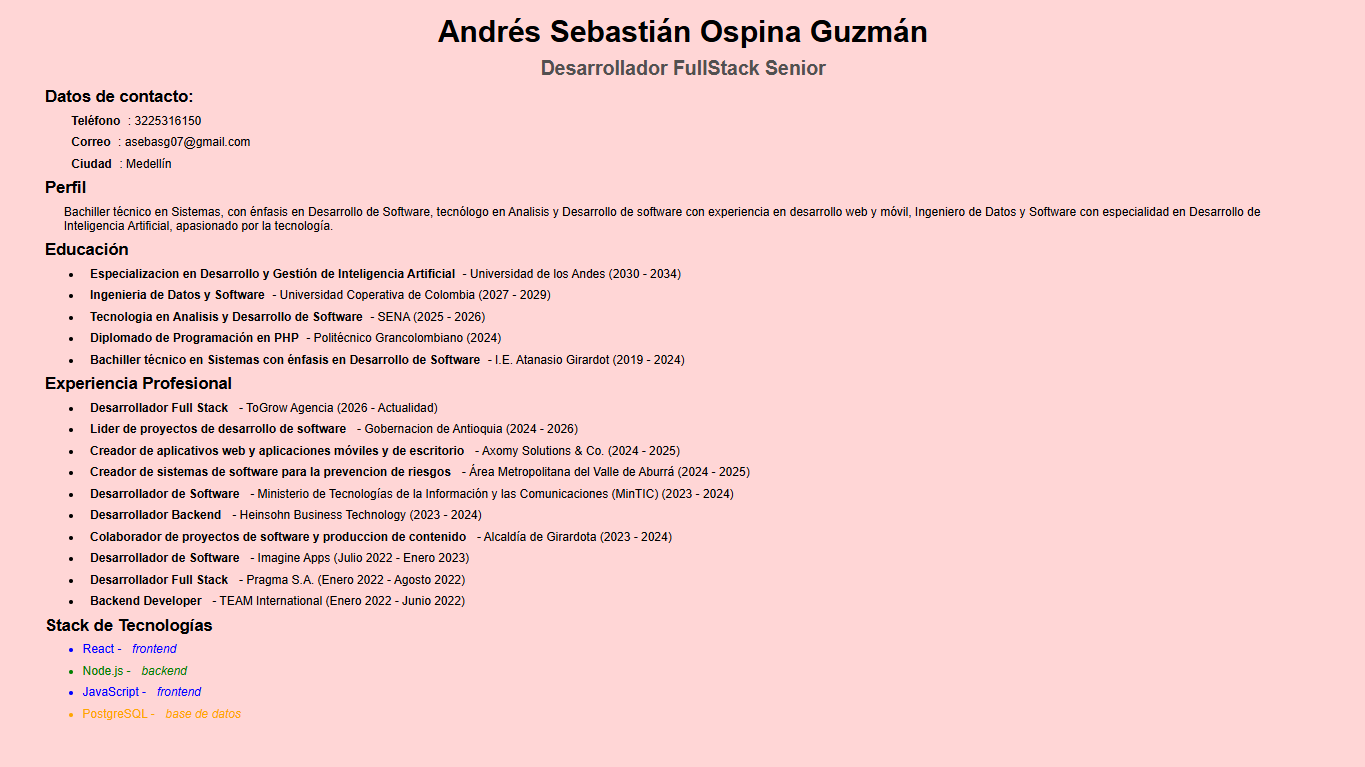
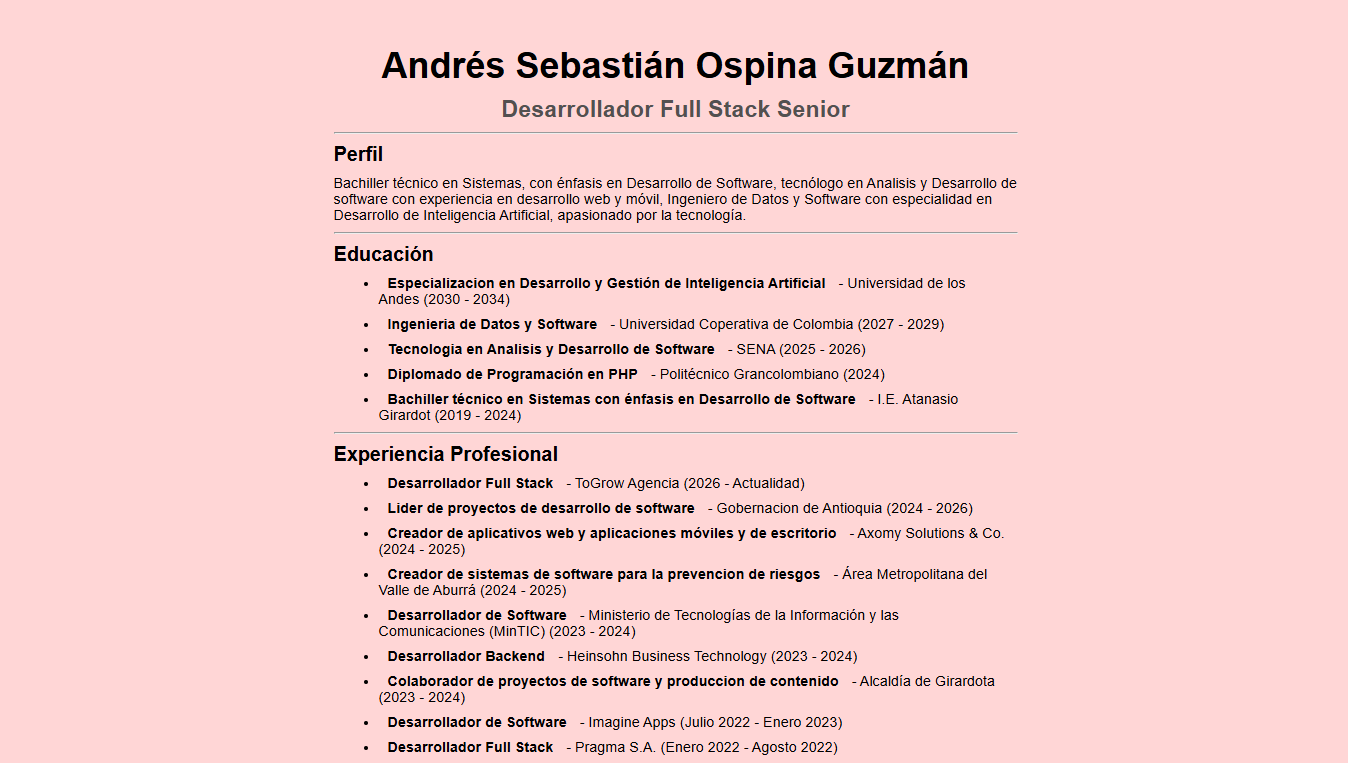
README actualizado con la información más reciente del código del CV.

Changed region(s): [[0.0312, 0.1206, 0.9347, 0.9948], [0.2804, 0.0301, 0.7166, 0.1809]]

diff --git a/README.md b/README.md
@@ -16,5 +16,9 @@ Posteriormente a ello, deberas de abrir el navegador y dirigirte a la siguiente 
 http://localhost:5173/
 ```
 
+## Utilización de props y desestructuración de código
+##### Actualización: 04-06-2025
+Los componentes del CV ahora utilizand `props` para recibir datos de manera dinámica. Esto permite que el CV sea fácilmente personalizable y escalable. Además, se utiliza la desestructuración de objetos para mejorar la legibilidad del código.
+
 ![CV-andres-sebastian-ospina-guzman_-_actualizacion](./src/assets/img/image.png)
-> Segunda versión del CV de Andrés Sebastián Ospina Guzmán.
+> Tercera versión del CV de Andrés Sebastián Ospina Guzmán.
